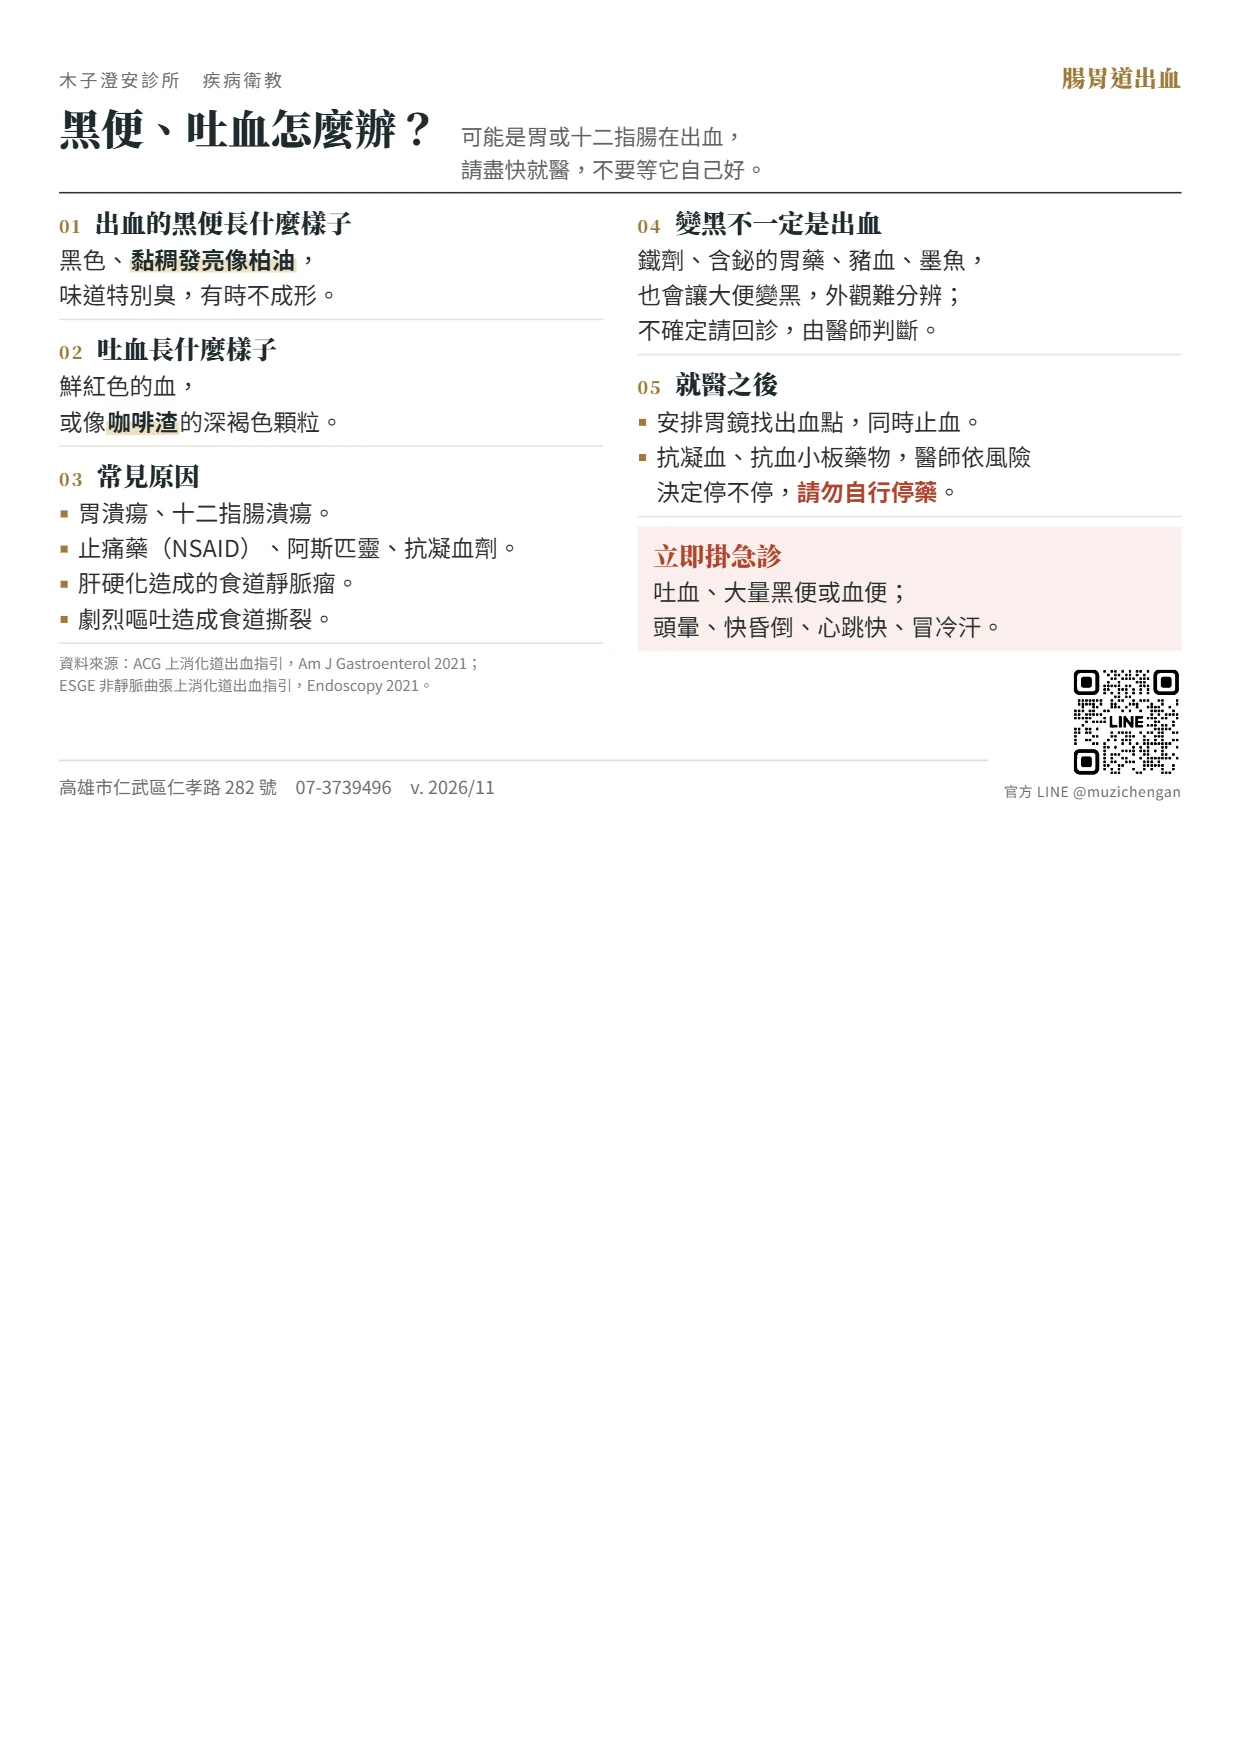
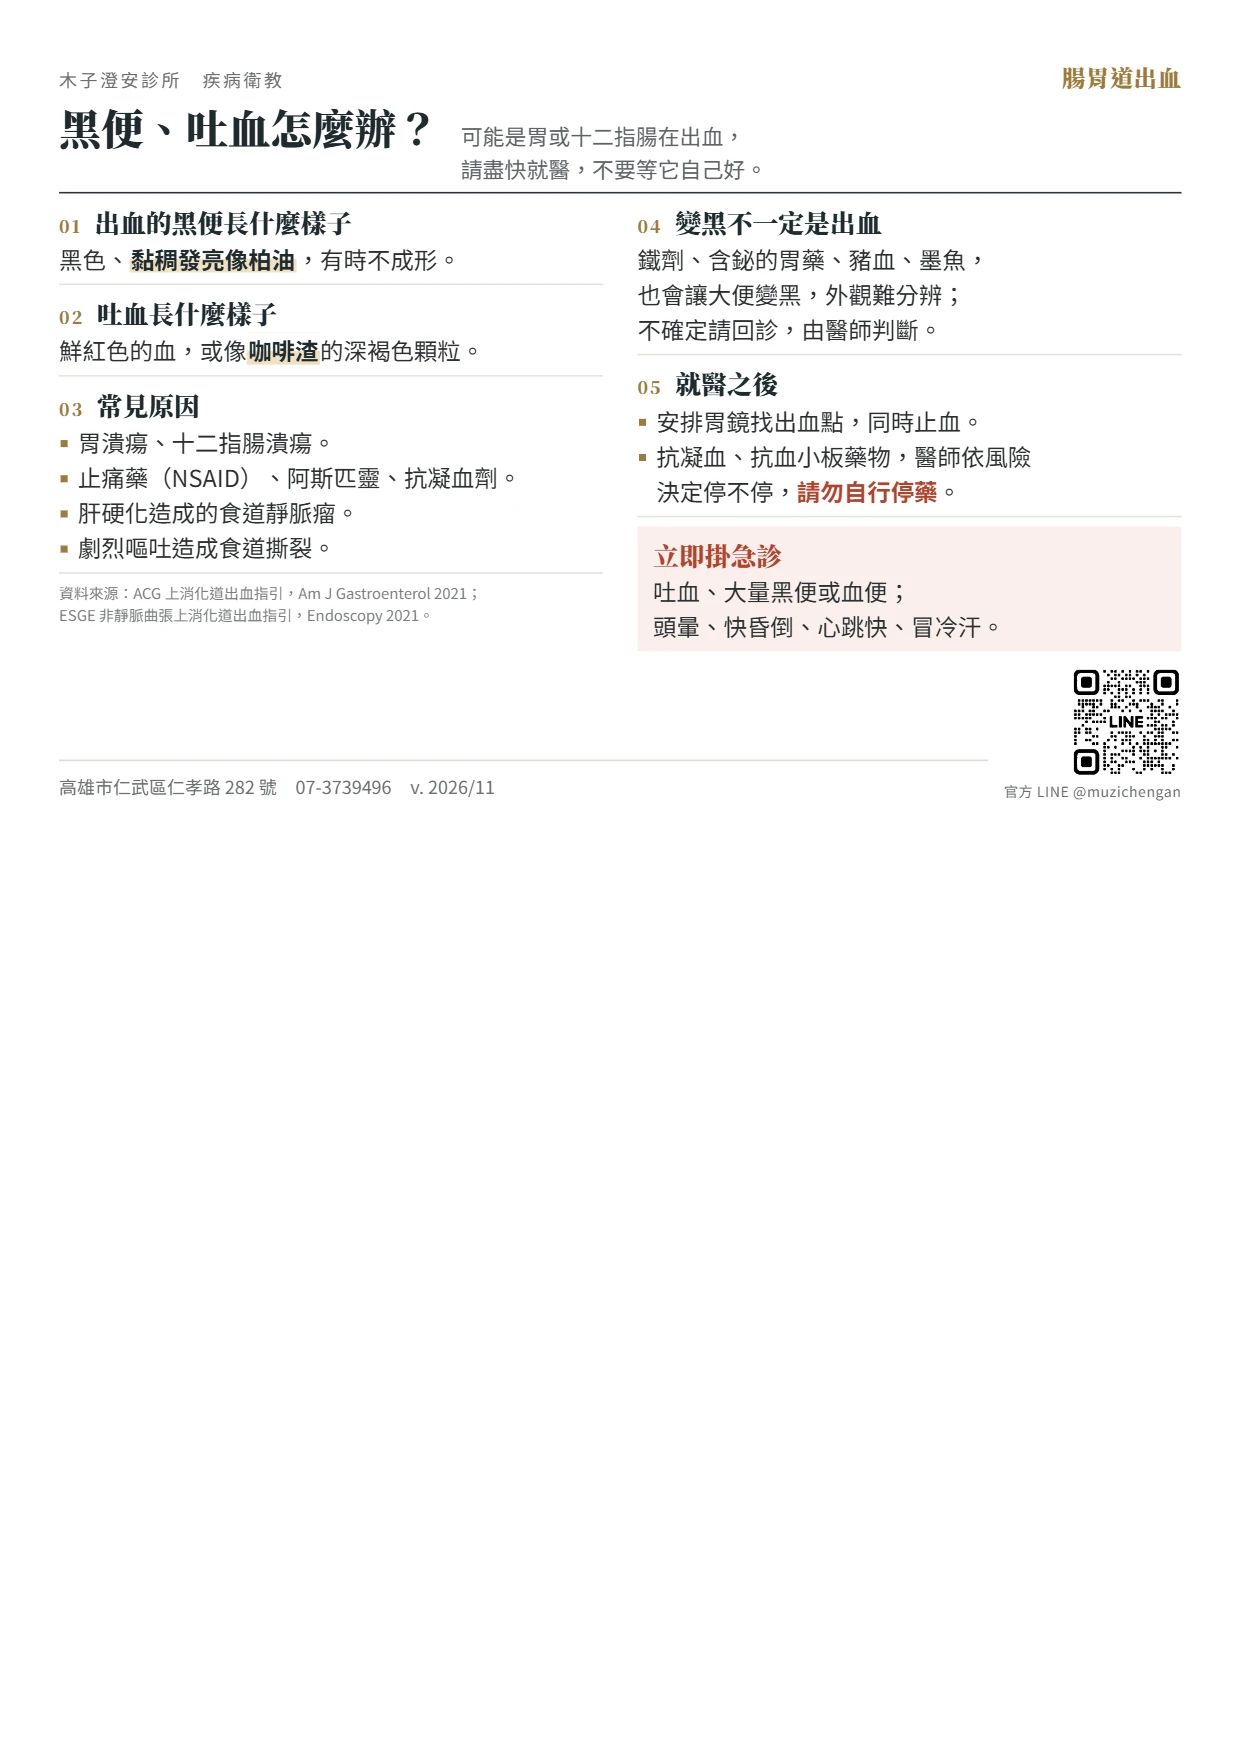
衛教：黑便吐血衛教單刪「味道特別臭」，兩句縮成一行

Changed region(s): [[0.0306, 0.1538, 0.3981, 0.4], [0.3368, 0.2462, 0.3981, 0.2769], [0.2756, 0.1231, 0.3368, 0.1538]]

diff --git a/edu-src/a5.html b/edu-src/a5.html
@@ -1519,9 +1519,9 @@ table.fm th.hi{color:var(--red);}
   <div class="cols">
     <div class="col">
       <div class="row"><div class="k"><small>01</small><b>出血的黑便長什麼樣子</b></div>
-        <div class="v"><p>黑色、<span class="hl">黏稠發亮像柏油</span>，<br>味道特別臭，有時不成形。</p></div></div>
+        <div class="v"><p>黑色、<span class="hl">黏稠發亮像柏油</span>，有時不成形。</p></div></div>
       <div class="row"><div class="k"><small>02</small><b>吐血長什麼樣子</b></div>
-        <div class="v"><p>鮮紅色的血，<br>或像<span class="hl">咖啡渣</span>的深褐色顆粒。</p></div></div>
+        <div class="v"><p>鮮紅色的血，或像<span class="hl">咖啡渣</span>的深褐色顆粒。</p></div></div>
       <div class="row"><div class="k"><small>03</small><b>常見原因</b></div>
         <div class="v"><ul class="d">
           <li>胃潰瘍、十二指腸潰瘍。</li>

diff --git a/sw.js b/sw.js
@@ -9,7 +9,7 @@
    工作台開啟後會把所有衛教與表單圖片預先存下，斷網時也能顯示與列印。
    網路很慢（伺服器 3 秒內沒回應，圖片 6 秒）時先用快取開啟，背景照樣把新版存下，下次開啟就是新版；
    以前會一直等到連線逾時，網路卡住時整個工作台白畫面。 */
-const CACHE = 'tools-v118';
+const CACHE = 'tools-v119';
 const CORE = [
   './', 'index.html',
   'mount.js', 'revision.js',
